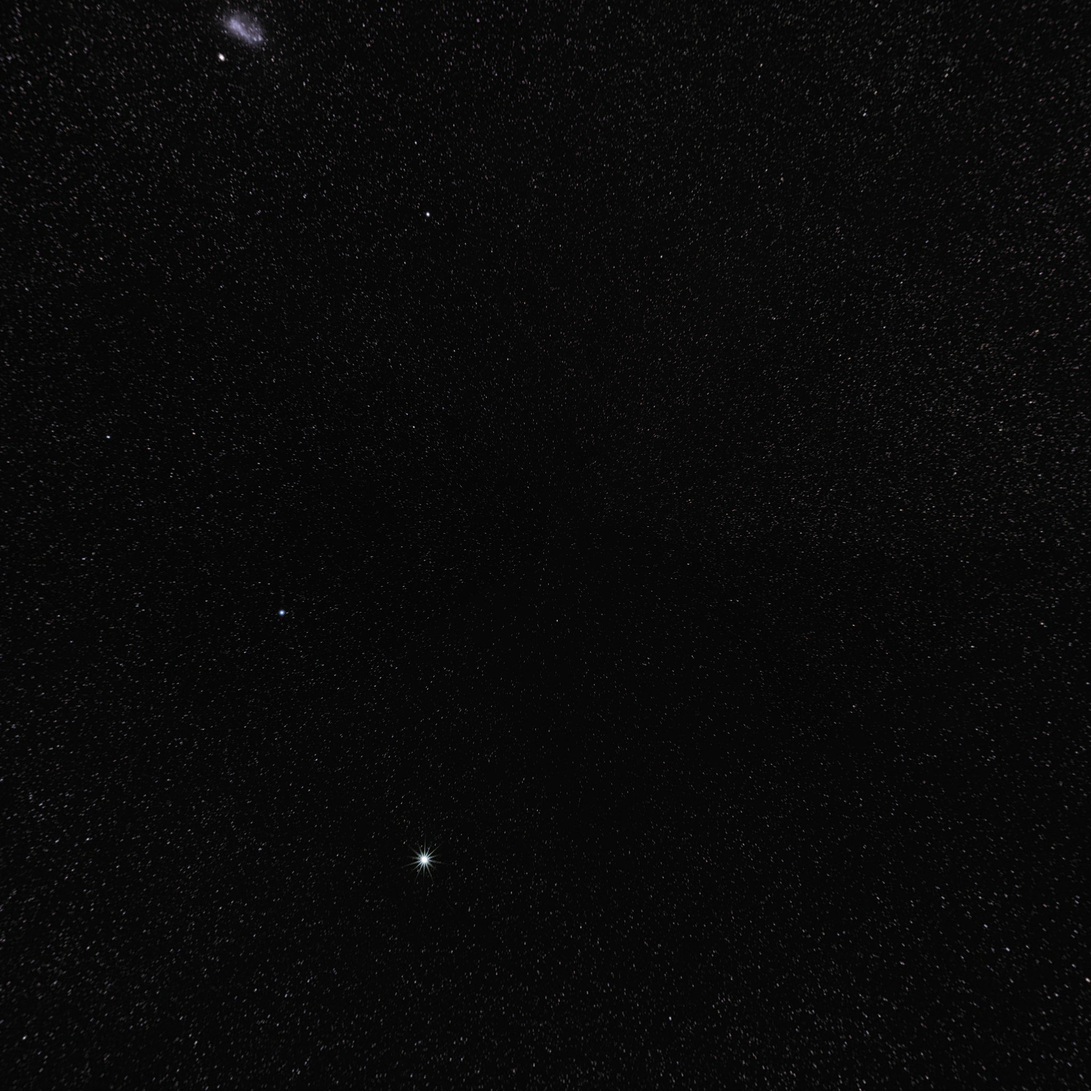
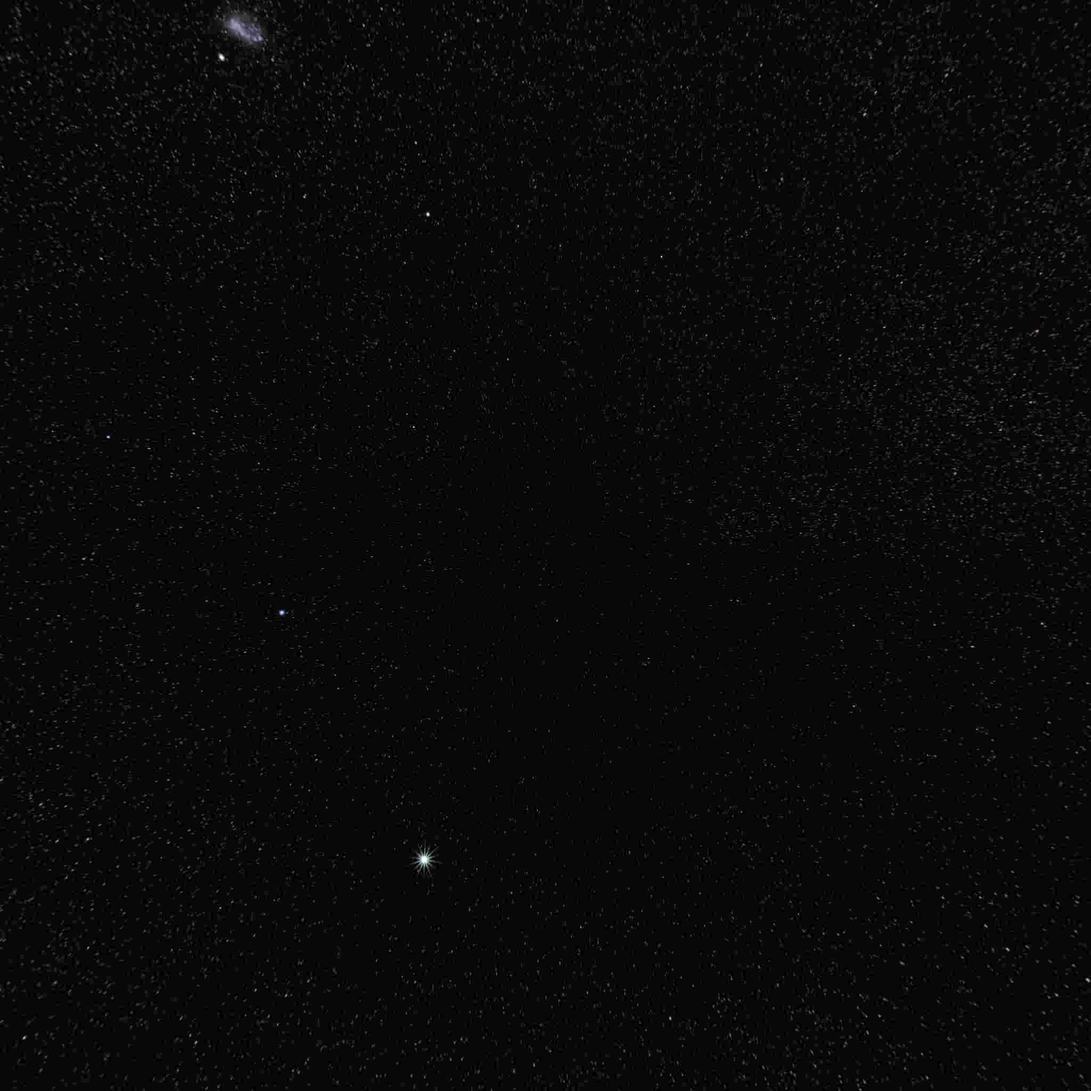
update

diff --git a/front-end/screen/scripts/index.js b/front-end/screen/scripts/index.js
@@ -44,7 +44,7 @@ var qqR, qqTheta, qqDTheta, qqY;
 var manager = new THREE.LoadingManager();
 manager.onLoad = init;
 var loader = new THREE.TextureLoader(manager);
-var bgTexture = loader.load('./images/bg.jpg');
+// var bgTexture = loader.load('./images/bg.jpg');
 
 var appleTexture = loader.load('./images/icons8-apple.png');
 var facebookTexture = loader.load('./images/icons8-facebook.png');
@@ -66,133 +66,131 @@ var allShape;
 // init();
 // animate();
 
-function imageLoad(src, callback) {
-	var img = new Image();
-	img.src = src;
-	img.onload = function() {
-		callback && callback(img);
-	}
-}
+// function imageLoad(src, callback) {
+// 	var img = new Image();
+// 	img.src = src;
+// 	img.onload = function() {
+// 		callback && callback(img);
+// 	}
+// }
 
-function imageCanvas(img) {
-	var canvas = document.createElement('canvas');
-	canvas.width = img.width;
-	canvas.height = img.height;
-	var ctx = canvas.getContext("2d");
-	ctx.drawImage(img, 0, 0, canvas.width, canvas.height);
-	// document.body.appendChild(canvas);
-	// ctx.save();
-	var data = ctx.getImageData(0, 0, canvas.width, canvas.height);
-	calculate(data);
-}
+// function imageCanvas(img) {
+// 	var canvas = document.createElement('canvas');
+// 	canvas.width = img.width;
+// 	canvas.height = img.height;
+// 	var ctx = canvas.getContext("2d");
+// 	ctx.drawImage(img, 0, 0, canvas.width, canvas.height);
+// 	// document.body.appendChild(canvas);
+// 	// ctx.save();
+// 	var data = ctx.getImageData(0, 0, canvas.width, canvas.height);
+// 	calculate(data);
+// }
 
-function calculate(data) {
-	console.log(data);
-	var particles = data.width * data.height;
-	var geometry = new THREE.BufferGeometry();
+// function calculate(data) {
+// 	console.log(data);
+// 	var particles = data.width * data.height;
+// 	var geometry = new THREE.BufferGeometry();
 
-	var positions = new Float32Array(particles * 3);
-	// var positionscopy = new Float32Array(particles * 3);
-	var colors = new Float32Array(particles * 3);
-	for (var i = 0; i < positions.length; i += 15) {
-		if (data.data[4 * i + 3] !== 0) {
-			// positions
-			positions[3 * i] = parseInt(i % data.width);
-			positions[3 * i + 1] = 200 + parseInt((data.height - i) / data.width);
-			positions[3 * i + 2] = 0;
+// 	var positions = new Float32Array(particles * 3);
+// 	// var positionscopy = new Float32Array(particles * 3);
+// 	var colors = new Float32Array(particles * 3);
+// 	for (var i = 0; i < positions.length; i += 15) {
+// 		if (data.data[4 * i + 3] !== 0) {
+// 			// positions
+// 			positions[3 * i] = parseInt(i % data.width);
+// 			positions[3 * i + 1] = 200 + parseInt((data.height - i) / data.width);
+// 			positions[3 * i + 2] = 0;
 
-			// positionscopy[3 * i] = Math.floor(Math.random() * data.width);
-			// positionscopy[3 * i + 1] = Math.floor(Math.random() * data.height);
-			// positionscopy[3 * i + 2] = 0;
-			// colors
+// 			// positionscopy[3 * i] = Math.floor(Math.random() * data.width);
+// 			// positionscopy[3 * i + 1] = Math.floor(Math.random() * data.height);
+// 			// positionscopy[3 * i + 2] = 0;
+// 			// colors
 
-			colors[3 * i] = data.data[4 * i] / 255.0;
-			colors[3 * i + 1] = data.data[4 * i + 1] / 255.0;
-			colors[3 * i + 2] = data.data[4 * i + 2] / 255.0;
-		}
-	}
-	// geometry.addAttribute('position', new THREE.BufferAttribute(positionscopy, 3));
-	geometry.addAttribute('position', new THREE.BufferAttribute(positions, 3));
-	geometry.addAttribute('color', new THREE.BufferAttribute(colors, 3));
-	//    geometry.computeBoundingSphere();
-	// console.log("geometry",geometry);
-	// var material = new THREE.PointsMaterial({
-	// 	size: 1,
-	// 	vertexColors: THREE.VertexColors
-	// });
-	var uniforms = {
-		color: {
-			value: new THREE.Color(0xffffff)
-		},
-		// texture:{value: new THREE.TextureLoader().load( "//game.gtimg.cn/images/tgideas/2017/three/shader/dot.png")},
-		val: {
-			value: 1.0
-		}
-	};
+// 			colors[3 * i] = data.data[4 * i] / 255.0;
+// 			colors[3 * i + 1] = data.data[4 * i + 1] / 255.0;
+// 			colors[3 * i + 2] = data.data[4 * i + 2] / 255.0;
+// 		}
+// 	}
+// 	// geometry.addAttribute('position', new THREE.BufferAttribute(positionscopy, 3));
+// 	geometry.addAttribute('position', new THREE.BufferAttribute(positions, 3));
+// 	geometry.addAttribute('color', new THREE.BufferAttribute(colors, 3));
+// 	//    geometry.computeBoundingSphere();
+// 	// console.log("geometry",geometry);
+// 	// var material = new THREE.PointsMaterial({
+// 	// 	size: 1,
+// 	// 	vertexColors: THREE.VertexColors
+// 	// });
+// 	var uniforms = {
+// 		color: {
+// 			value: new THREE.Color(0xffffff)
+// 		},
+// 		// texture:{value: new THREE.TextureLoader().load( "//game.gtimg.cn/images/tgideas/2017/three/shader/dot.png")},
+// 		val: {
+// 			value: 1.0
+// 		}
+// 	};
 
-	var material = new THREE.ShaderMaterial({
-		uniforms: uniforms,
-		vertexShader: document.getElementById('vertexshader').textContent,
-		fragmentShader: document.getElementById('fragmentshader').textContent,
-		blending: THREE.AdditiveBlending,
-		depthTest: false,
-		transparent: true
-	});
-	var points = new THREE.Points(geometry, material);
-	scene.add(points);
+// 	var material = new THREE.ShaderMaterial({
+// 		uniforms: uniforms,
+// 		vertexShader: document.getElementById('vertexshader').textContent,
+// 		fragmentShader: document.getElementById('fragmentshader').textContent,
+// 		blending: THREE.AdditiveBlending,
+// 		depthTest: false,
+// 		transparent: true
+// 	});
+// 	var points = new THREE.Points(geometry, material);
+// 	scene.add(points);
 
-	// for (var i = 0; i < positionscopy.length; i++) {
-	// 	anime({
-	// 		targets: positionscopy[i],
-	// 		duration: Math.random() * 2000 + 2000,
-	// 		x: positions[i],
-	// 		easing: 'easeInOutExpo',
-	// 	})
-	// }
-	// 
-	geometry.attributes.position.needsUpdate = true;
-	console.log(geometry.attributes);
-	var pos = {
-		val: 1
-	};
-	tween = new TWEEN.Tween(pos).to({
-		val: 0
-	}, 2000).easing(TWEEN.Easing.Quadratic.InOut).delay(1000).onUpdate(callback);
-	tweenBack = new TWEEN.Tween(pos).to({
-		val: 1
-	}, 2000).easing(TWEEN.Easing.Quadratic.InOut).delay(1000).onUpdate(callback);
-	tween.chain(tweenBack);
-	tweenBack.chain(tween);
-	tween.start();
+// 	// for (var i = 0; i < positionscopy.length; i++) {
+// 	// 	anime({
+// 	// 		targets: positionscopy[i],
+// 	// 		duration: Math.random() * 2000 + 2000,
+// 	// 		x: positions[i],
+// 	// 		easing: 'easeInOutExpo',
+// 	// 	})
+// 	// }
+// 	// 
+// 	geometry.attributes.position.needsUpdate = true;
+// 	console.log(geometry.attributes);
+// 	var pos = {
+// 		val: 1
+// 	};
+// 	tween = new TWEEN.Tween(pos).to({
+// 		val: 0
+// 	}, 2000).easing(TWEEN.Easing.Quadratic.InOut).delay(1000).onUpdate(callback);
+// 	tweenBack = new TWEEN.Tween(pos).to({
+// 		val: 1
+// 	}, 2000).easing(TWEEN.Easing.Quadratic.InOut).delay(1000).onUpdate(callback);
+// 	tween.chain(tweenBack);
+// 	tweenBack.chain(tween);
+// 	tween.start();
 
-	function callback() {
-		points.material.uniforms.val.value = this.val;
-	}
+// 	function callback() {
+// 		points.material.uniforms.val.value = this.val;
+// 	}
 
-	// this.scene.add(particleSystem);
-	// this.particleSystem = particleSystem;
-	// anime({
-	// 	targets: geometry.attributes.position,
-	// 	duration: Math.random() * 2000 + 2000,
-	// 	array: positions,
-	// 	easing: 'easeInOutExpo',
-	// })
-}
-
-function initScene(scene) {
+// 	// this.scene.add(particleSystem);
+// 	// this.particleSystem = particleSystem;
+// 	// anime({
+// 	// 	targets: geometry.attributes.position,
+// 	// 	duration: Math.random() * 2000 + 2000,
+// 	// 	array: positions,
+// 	// 	easing: 'easeInOutExpo',
+// 	// })
+// }
+var cubeTexture;
+function initScene() {
 	//给场景添加天空盒子纹理
 	var cubeTextureLoader = new THREE.CubeTextureLoader();
 	cubeTextureLoader.setPath('./images/space/');
 	//六张图片分别是朝前的（posz）、朝后的（negz）、朝上的（posy）、朝下的（negy）、朝右的（posx）和朝左的（negx）。
-	var cubeTexture = cubeTextureLoader.load([
+	cubeTexture = cubeTextureLoader.load([
 		'right.jpg', 'left.jpg',
 		'top.jpg', 'bottom.jpg',
 		'front.jpg', 'back.jpg'
 	]);
-
-	scene.background = cubeTexture;
 }
-
+initScene();
 
 function init() {
 
@@ -207,12 +205,12 @@ function init() {
 
 	scene.add(allObjects);
 
-	initScene(scene);
+	scene.background = cubeTexture;
 
 	// imageLoad('./images/ani.png', imageCanvas);
 
 	//add bg
-	addBg();
+	// addBg();
 	//addIcons
 	addIcons();
 	//addObjects
@@ -566,7 +564,8 @@ function addObjects() {
 function addGUI() {
 	guiControls = new function() {
 		this.rotationSpeed = 0.01;
-		this.allObjectsX = Math.PI / 4;
+		// this.allObjectsX = Math.PI / 4;
+		this.allObjectsX = 0.5;
 		this.appleR = 1500;
 		this.appleSpeed = 11;
 		this.appleY = 0;
@@ -1015,8 +1014,6 @@ function animate() {
 	qq.position.y = guiControls.qqY * Math.cos(qqTheta);
 	qq.position.z = qqR * Math.sin(qqTheta);
 
-	TWEEN.update();
-
 	controls.update();
 
 	render();
@@ -1027,7 +1024,7 @@ function render() {
 	stats.update();
 	renderer.autoClear = false;
 	renderer.clear();
-	renderer.render(backgroundScene, backgroundCamera);
+	// renderer.render(backgroundScene, backgroundCamera);
 	renderer.render(scene, camera);
 
 }

diff --git a/front-end/showmobile/scripts/index.js b/front-end/showmobile/scripts/index.js
@@ -3,7 +3,7 @@
 // var socketurl = "ws://127.0.0.1:5500";
 var url = "https://wechat.mynecis.cn/faceapi/identify";
 var detecturl = "https://wechat.mynecis.cn/wx/tencent/detect";
-var socketurl="wss://wechat.mynecis.cn";
+var socketurl = "wss://wechat.mynecis.cn";
 window.onload = function() {
   var socket = io.connect(socketurl, {
     path: '/facesocket/socket.io'
@@ -17,7 +17,7 @@ window.onload = function() {
 
   var full = document.getElementById('full');
   var fullContext = full.getContext('2d');
-  var time = 5000;
+  var time = 10000;
   tracker.setInitialScale(4);
   tracker.setInitialScale(1);
   tracker.setStepSize(2);
@@ -31,26 +31,32 @@ window.onload = function() {
   full.height = canvas.height;
   var flag = true;
   var config = new function() {
-    this.width = 180;
+    this.width = 200;
   }
   tracker.on('track', function(event) {
     context.clearRect(0, 0, canvas.width, canvas.height);
-    var rect = event.data[0];
-    if (event.data[0] && rect.width > config.width) {
-
-      if (flag==true) {
+    // var rect = event.data[0];
+    // console.log(event);
+    // if (event.data[0] && rect.width > config.width) {
+    if (event.data[0] && event.data[0].width > config.width) {
+      // context.clearRect(0, 0, canvas.width, canvas.height);
+      var rect = event.data[0];
+      if (flag == true) {
         // console.log("拍照");
+        console.log(rect);
         // shortCut.width = rect.width;
         // shortCut.height = rect.height;
         scContext.clearRect(0, 0, shortCut.width, shortCut.height);
         fullContext.drawImage(video, 0, 0, canvas.width, canvas.height);
         var rectX = (rect.x - 30 > 0) ? (rect.x - 30) : 0;
         var rectY = (rect.y - 30 > 0) ? (rect.y - 30) : 0;
+        var w = (rect.width + 60 >= canvas.width) ? rect.width : rect.width + 60;
+        var h = (rect.height + 60 >= canvas.height) ? rect.height : rect.height + 60;
         // var rectX = rect.x;
         // var rectY = rect.y;
         // console.log(rect.width);
         // console.log(full.toDataURL('image/jpeg'))
-        scContext.drawImage(full, rectX, rectY, rect.width + 60, rect.height + 60, 0, 0, shortCut.width, shortCut.width);
+        scContext.drawImage(full, rectX, rectY, w, h, 0, 0, shortCut.width, shortCut.width);
         // var base64 = full.toDataURL('image/jpeg');
         var base64 = shortCut.toDataURL('image/jpeg');
         sendPhoto(base64);

diff --git a/front-end/showmobile/index.html b/front-end/showmobile/index.html
@@ -47,7 +47,7 @@
         <div id="tip"></div>
     </div>
     <div id="error" style="position: absolute;z-index: 1000;color: red;font-size: 0.3rem; width: 100%;left: 0;top: 0;"></div>
-    <!-- <script src="scripts/debug.js"></script> -->
+    <script src="scripts/debug.js"></script>
     <script src="scripts/adapter.js"></script>
     <script src="scripts/jquery.min.js"></script>
     <script src="scripts/tracking.min.js"></script>

diff --git a/front-end/screen/index.html b/front-end/screen/index.html
@@ -66,7 +66,7 @@
     <script src="libs/jquery.min.js"></script>
     <script src="libs/underscore.min.js"></script>
     <script src="libs/socket.io.js"></script>
-    <script src="libs/tween.min.js"></script>
+    <!-- <script src="libs/tween.min.js"></script> -->
     <script src="libs/anime.min.js"></script>
     <script src="libs/TrackballControls.js"></script>
     <script src="libs/dat.gui.min.js"></script>
